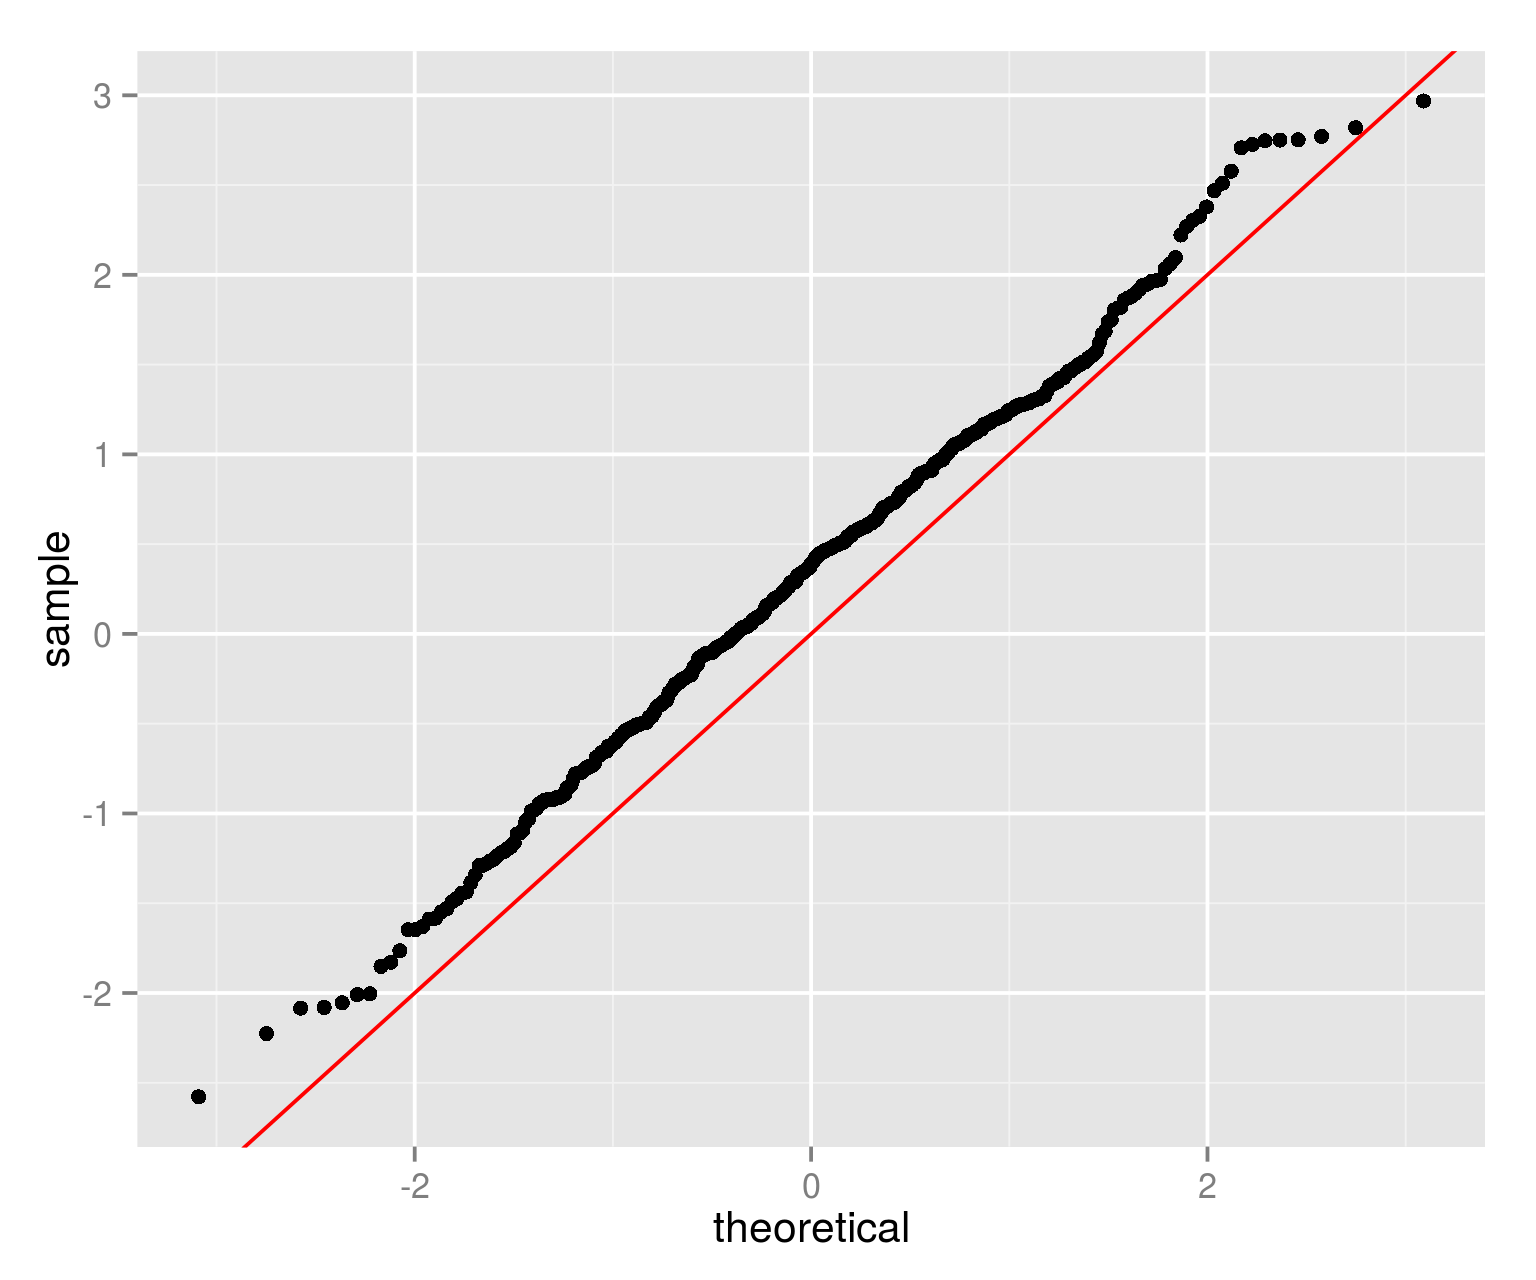
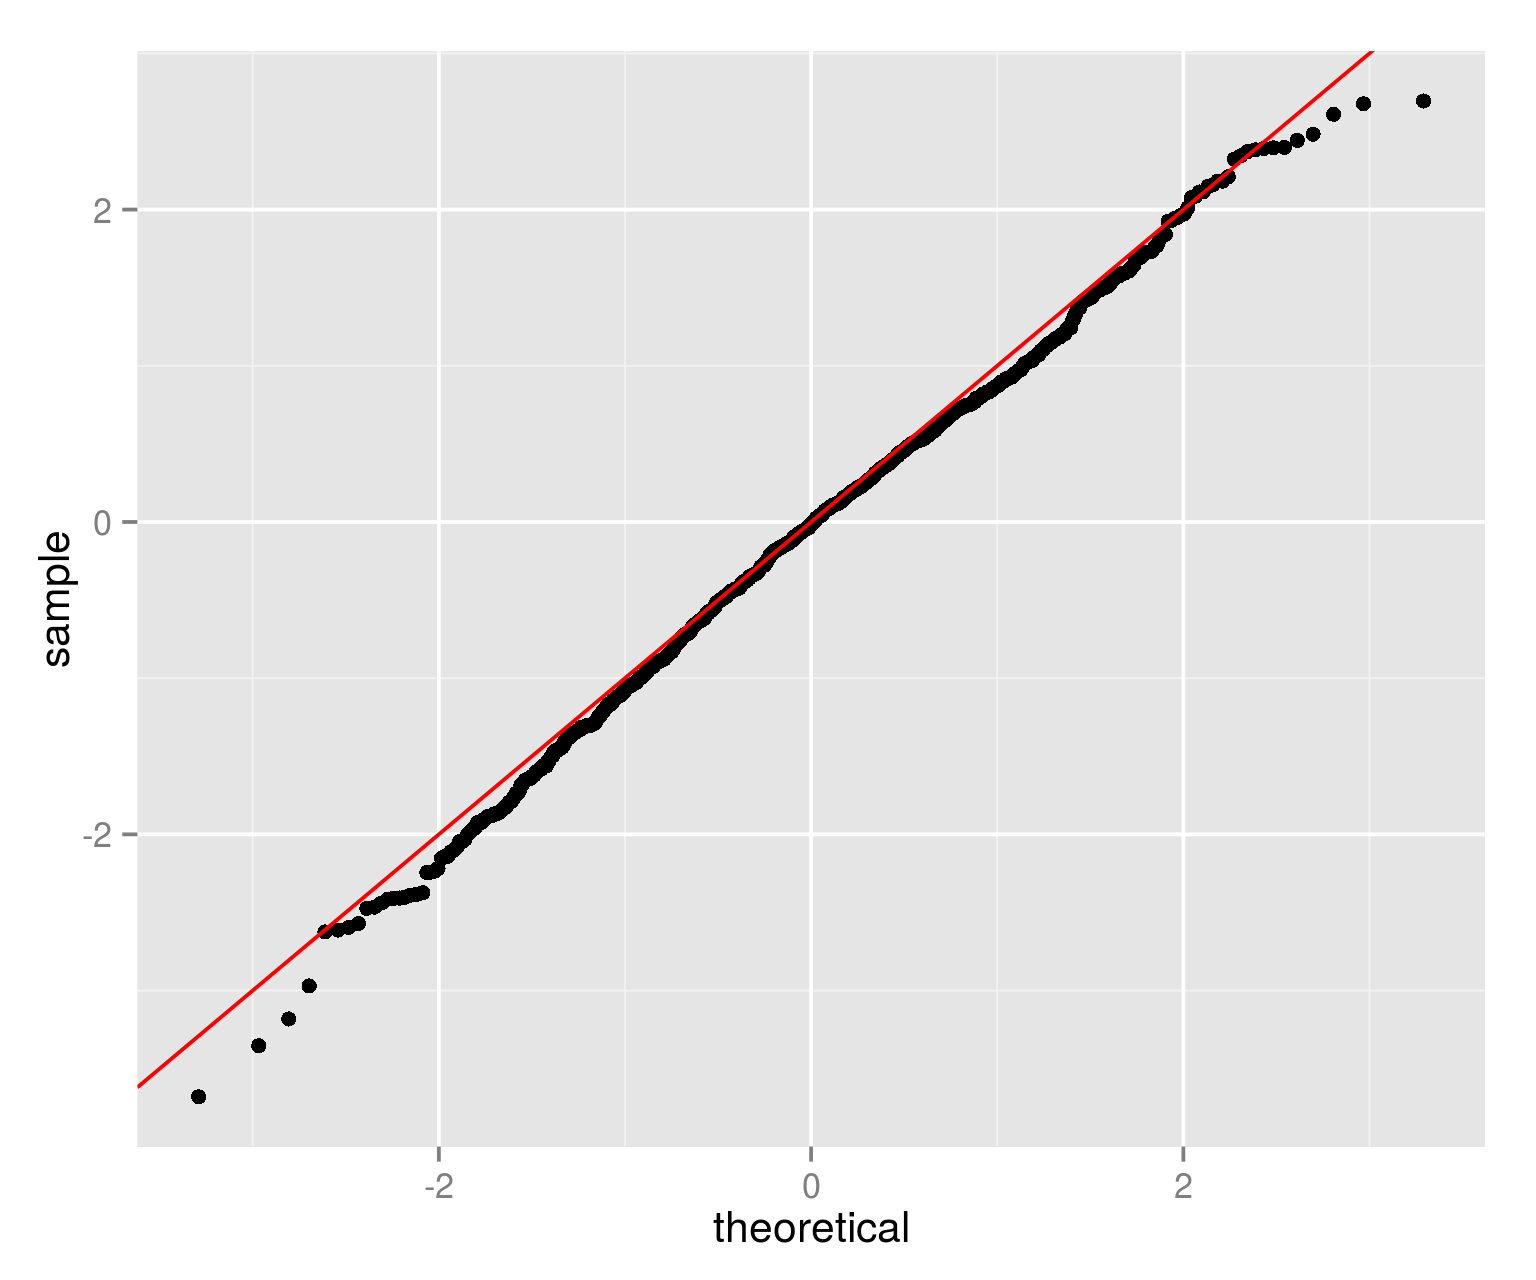
fixing bias in covariance estimation
arguably df=1 should be the default when df is missing, not df=p.
the maximum eigenvalue is still hosed, tho.

diff --git a/README.md b/README.md
@@ -306,11 +306,11 @@ matt <- matrix.trace(twom$Sigma)
 # Now perform some simulations to see if these are
 # accurate:
 
-nsim <- 500
+nsim <- 1000
 set.seed(23401)
 retv <- replicate(nsim, {
     X <- genrows(ndays, true.mu, haSigma)
-    twom <- twomoments(X)
+    twom <- twomoments(X, df = 1)
     matt <- matrix.trace(twom$Sigma)
     marginal.wald <- (val(matt) - true.trace)/sqrt(diag(vcov(matt)))
 })
@@ -351,7 +351,7 @@ haSigma <- chol(true.Sigma)
 ndays <- 1250
 
 X <- genrows(ndays, true.mu, haSigma)
-twom <- twomoments(X)
+twom <- twomoments(X, df = 1)
 maxe <- maxeig(twom$Sigma)
 print(maxe)
 ```
@@ -362,7 +362,7 @@ print(maxe)
 ##  calc: ----------------- 
 ##               d X
 ##   val: 18 ...
-##  dvdx: 0 1.6 0.0069 -0.16 0.051 -0.0065 0.051 -0.0024 0.032 -0.035 -0.05 0.99 0.0087 -0.2 0.064 -0.0082 0.065 -0.003 0.041 -0.044 -0.062 1.9e-05 -0.00088 0.00028 -3.6e-05 0.00028 -1.3e-05 0.00018 -0.00019 -0.00027 0.01 -0.0064 0.00083 -0.0065 0.00031 -0.0041 0.0045 0.0063 0.001 -0.00026 0.0021 -9.7e-05 0.0013 -0.0014 -0.002 1.7e-05 -0.00027 1.3e-05 -0.00017 0.00018 0.00026 0.001 -9.9e-05 0.0013 -0.0014 -0.002 2.3e-06 -6.2e-05 6.8e-05 9.5e-05 0.00041 -0.00091 -0.0013 5e-04 0.0014 0.00097 ...
+##  dvdx: 0 1.6 0.0068 -0.16 0.05 -0.0065 0.051 -0.0024 0.032 -0.035 -0.049 0.99 0.0086 -0.2 0.063 -0.0081 0.064 -0.003 0.04 -0.044 -0.062 1.9e-05 -0.00087 0.00028 -3.5e-05 0.00028 -1.3e-05 0.00018 -0.00019 -0.00027 0.01 -0.0064 0.00082 -0.0065 0.00031 -0.0041 0.0045 0.0063 0.001 -0.00026 0.0021 -9.6e-05 0.0013 -0.0014 -0.002 1.7e-05 -0.00026 1.2e-05 -0.00017 0.00018 0.00025 0.001 -9.8e-05 0.0013 -0.0014 -0.002 2.3e-06 -6.1e-05 6.7e-05 9.4e-05 0.00041 -9e-04 -0.0013 0.00049 0.0014 0.00097 ...
 ##  varx: 2.3e-32 9.1e-20 4.1e-19 1.7e-19 1.5e-19 -1.1e-19 -1.1e-19 2.5e-19 -7.2e-20 -4.1e-19 -1.6e-19 1.9e-18 -5.8e-19 -2.9e-19 -1.9e-19 2.2e-19 2e-19 -3.8e-19 1.6e-19 6.2e-19 1.4e-19 5.6e-19 -2.5e-19 -4.2e-19 6.2e-19 5.2e-19 -8.5e-19 3.1e-19 1.4e-18 3.4e-19 1.3e-18 -7.9e-20 2.2e-19 6.3e-20 -1.7e-19 1.4e-19 3.6e-19 6.5e-20 1.5e-18 2.2e-19 1.8e-19 -2.7e-19 7.1e-20 5.7e-19 1e-19 5.8e-20 -2e-19 4.2e-19 -1.5e-19 -7.3e-19 -2.3e-19 1.4e-18 2.5e-19 -1e-19 -4.8e-19 -1.7e-19 4.1e-19 1.8e-19 9.9e-19 2.7e-19 8.6e-19 -3.8e-19 -1.1e-19 -4.3e-19 -4.2e-19 1.4e-19 ...
 ```
 
@@ -372,18 +372,18 @@ print(vcov(maxe))
 
 ```
 ##      [,1]
-## [1,] 0.54
+## [1,] 0.53
 ```
 
 Now perform some simulations to see if these are accurate:
 
 
 ```r
-nsim <- 500
+nsim <- 1000
 set.seed(23401)
 retv <- replicate(nsim, {
     X <- genrows(ndays, true.mu, haSigma)
-    twom <- twomoments(X)
+    twom <- twomoments(X, df = 1)
     maxe <- maxeig(twom$Sigma)
     marginal.wald <- (val(maxe) - true.maxe)/sqrt(diag(vcov(maxe)))
 })
